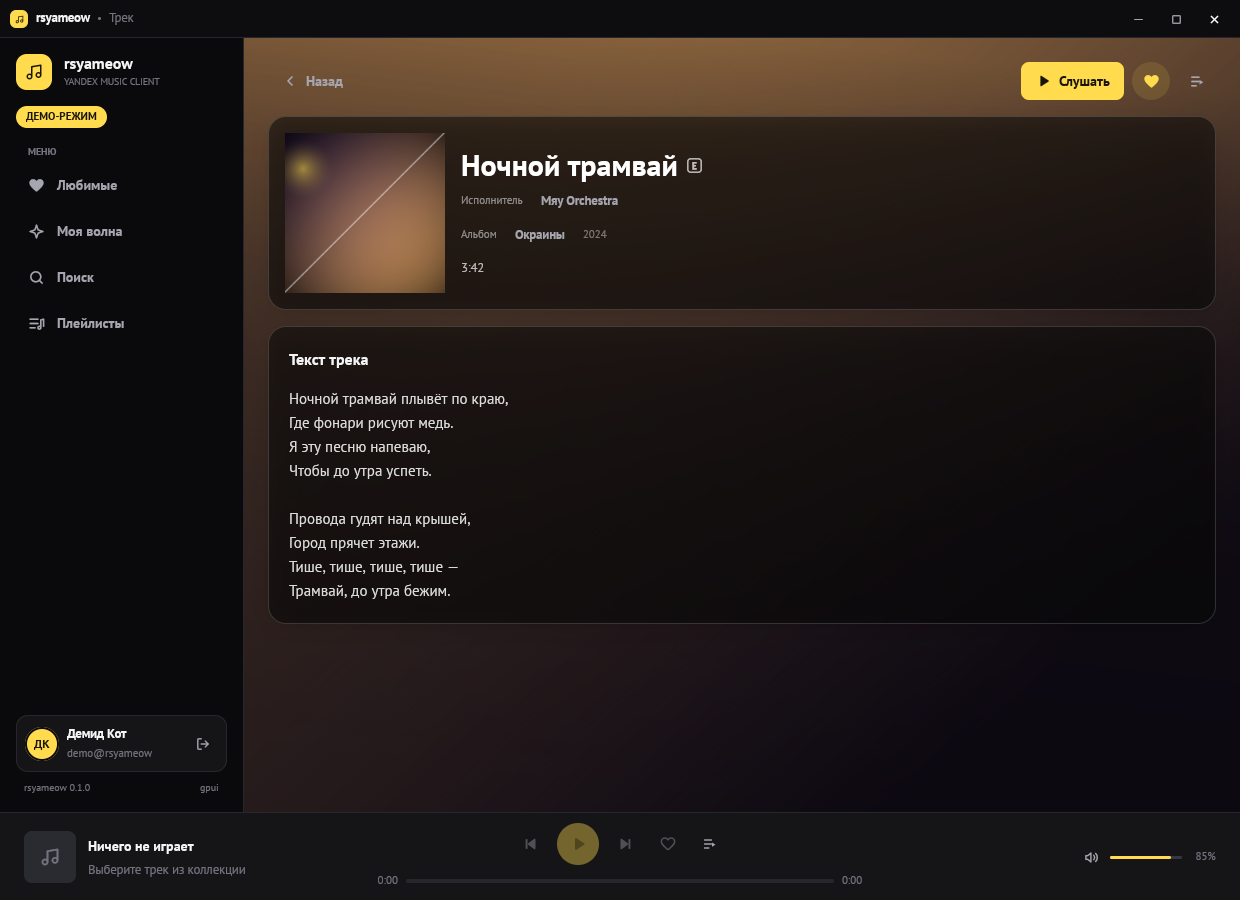
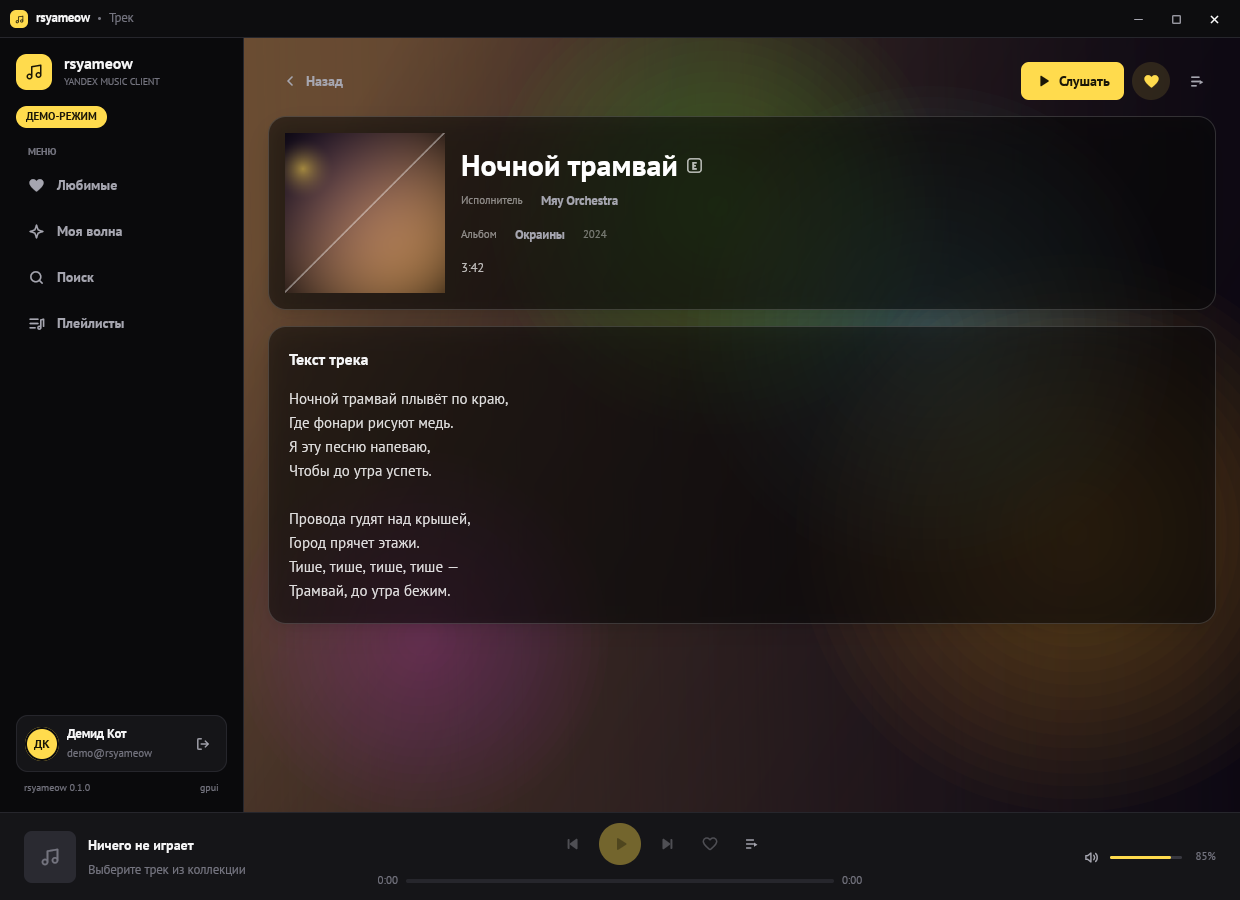
Document search debounce and fluid backgrounds

diff --git a/README.md b/README.md
@@ -27,8 +27,11 @@
   к любой композиции. Для длинных очередей показывается окно вокруг текущего
   трека, а названия догружаются по API.
 - **Поиск по каталогу.** Вкладки «Треки», «Исполнители» и «Альбомы»,
-  пагинация и обложки. Клик по исполнителю открывает его страницу, по
-  альбому — страницу альбома. В демо-режиме поиск работает локально.
+  пагинация и обложки. Поиск запускается сам через 400 мс после ввода
+  (кнопки «Найти» нет), Enter и переключение вкладки ищут сразу. Поле
+  поддерживает Ctrl+A, Ctrl+C/X/V, стрелки, Home/End; каретка стоит в конце
+  при клике. Клик по исполнителю открывает его страницу, по альбому — страницу
+  альбома. В демо-режиме поиск работает локально.
 - **Страницы артиста и альбома.** Обложка, жанры и счётчики артиста (включая
   количество лайков); на странице артиста видны первые 10 треков и
   горизонтальная лента из 10 альбомов.
@@ -40,12 +43,15 @@
   обложка, название, исполнитель и альбом со ссылками, длительность и, для
   текущего трека, позиция прослушивания. Ниже загружается текст песни, если он
   есть; при его отсутствии блок не показывается. Дублирующая карточка «О треке»
-  убрана. Фон — переливающийся градиент из цветов обложки с размытой подложкой;
-  карточки с димом. Для треков без обложки используется жёлтая палитра Яндекса.
+  убрана. Фон — плавающая многоцветная жидкость из цветов обложки (анимация
+  ~30 fps) с размытой подложкой; карточки с димом. Для треков без обложки
+  используется жёлтая палитра Яндекса.
 - **Моя волна.** Персональный поток `user:onyourwave`: полноэкранный постер
   текущего трека с крупной обложкой, переключением, лайком и прогрессом.
-  Описание и список очереди скрыты. Следующая партия догружается автоматически,
-  а уже знакомые треки отфильтровываются, чтобы очередь не ломалась. Текущий,
+  Описание и список очереди скрыты. Прогресс можно перематывать слайдером, а
+  кнопки выровнены по центральной паузе. Следующая партия догружается
+  автоматически, а уже знакомые треки отфильтровываются, чтобы очередь не
+  ломалась. Текущий,
   предыдущий и следующий треки предзагружаются в фоне, поэтому переключения
   почти мгновенные. При перезапуске текущий трек и его обложка тоже загружаются
   заранее.
@@ -62,9 +68,11 @@
   загружается. По окончании трека включается следующий. Аудио выводится через
   [rodio](https://github.com/RustAudio/rodio).
 - **Списки треков.** Название открывает страницу трека, имя исполнителя —
-  страницу артиста. У текущего трека вместо номера анимированный эквалайзер;
-  при наведении на строку слева появляется кнопка Play. Треки с explicit
-  помечены значком `E` в списках, очереди, плеере и на странице трека.
+  страницу артиста; при наведении ссылки подчёркиваются. В плеере название и
+  исполнитель текущего трека тоже кликабельны и подчёркиваются. У текущего
+  трека вместо номера анимированный эквалайзер; при наведении на строку слева
+  появляется кнопка Play. Треки с explicit помечены значком `E` в списках,
+  очереди, плеере и на странице трека.
 - **Демо-режим.** Полноценный интерфейс с вымышленными треками, обложками и
   симуляцией воспроизведения — без сети и токена. Удобно для скриншотов и
   разработки UI.
@@ -307,8 +315,9 @@ lossless-загрузка и обложки. Авторизация device flow 
   всю коллекцию.
 - Состояние сохраняет экран, выбранный трек, очередь и позицию, но не позицию
   прокрутки; результаты поиска загружаются заново после запроса.
-- Текстовое поле поддерживает набор, Backspace, Enter и вставку, но не IME и не
-  выделение мышью — этого достаточно для токена и поискового запроса.
+- Текстовое поле поддерживает набор, Backspace/Delete, Enter, вставку,
+  выделение Ctrl+A, копирование/вырезание и перемещение стрелками, но не IME,
+  не Shift-выделение и не выделение мышью; клик ставит каретку в конец.
 - Токен не обновляется автоматически; при истечении нужно войти заново.
 - macOS и Windows не тестировались, хотя gpui и rodio их поддерживают.
 - API Яндекс Музыки неофициальный и может измениться без предупреждения.
